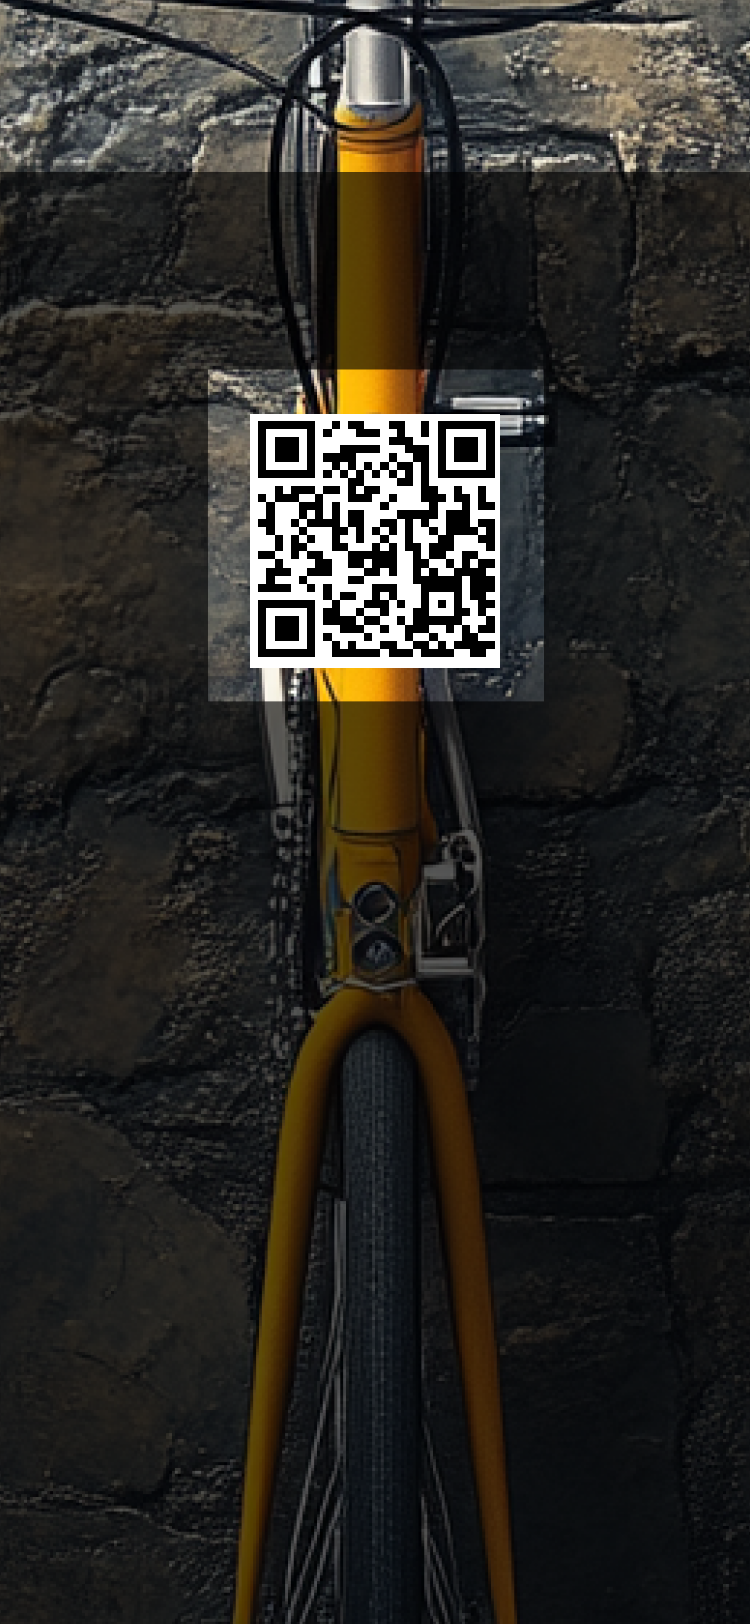
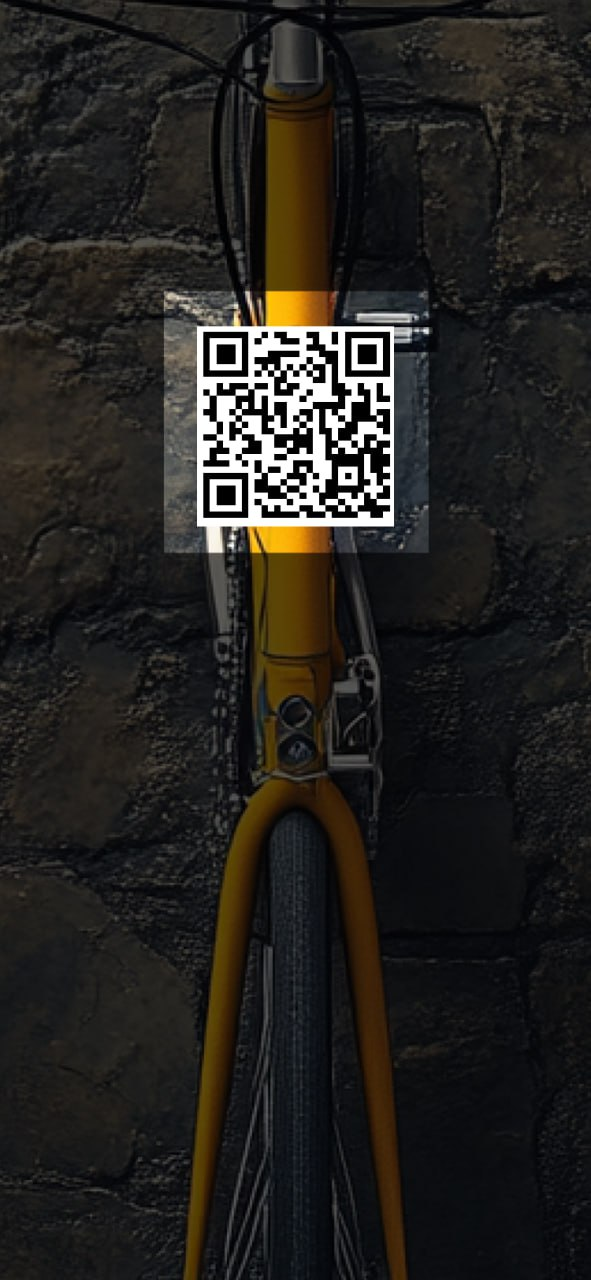
Fix interface and update QR image

Changed region(s): [[0.0, 0.0, 1.0, 0.125]]

diff --git a/components/MapComponent.tsx b/components/MapComponent.tsx
@@ -153,38 +153,40 @@ const MapComponent: React.FC = () => {
       </MapContainer>
 
       {/* Шторка с информацией об объекте и кнопкой Reserve */}
-      <div className={`drawer ${selectedObject ? 'open' : ''}`}>
-        {selectedObject && (
-          <div className="drawer-content">
-            <div className="drawer-header">
-              <h3 className="dialog-title">#{selectedObject.id}</h3>
-              <img src="/bike-icon.svg" alt="Bike Icon" className="bike-icon-large" />
-            </div>
-            <p>{selectedObject.address}</p>
+      {!isRateInfoVisible && (
+        <div className={`drawer ${selectedObject ? 'open' : ''}`}>
+          {selectedObject && (
+            <div className="drawer-content">
+              <div className="drawer-header">
+                <h3 className="dialog-title">#{selectedObject.id}</h3>
+                <img src="/bike-icon.svg" alt="Bike Icon" className="bike-icon-large" />
+              </div>
+              <p>{selectedObject.address}</p>
 
-            {timeLeft === null && !reservationTimedOut ? (
-              // Шаг 1: Кнопка для резервирования
-              <>
-                <button className="reserve-button" onClick={handleReserveClick}>Reserve</button>
-                <button className="cancel-button" onClick={handleCancel}>Cancel</button>
-              </>
-            ) : reservationTimedOut ? (
-              // Тайм-аут резервирования
-              <>
-                <h3>Reservation timed out</h3>
-                <button className="cancel-button" onClick={handleCancel}>Cancel</button>
-              </>
-            ) : (
-              // Таймер и кнопка Rent
-              <>
-                <h3>Booked for {formatTime(timeLeft)}</h3>
-                <button className="rent-button" onClick={handleRentClick}>Rent</button>
-                <button className="cancel-button" onClick={handleCancel}>Cancel</button>
-              </>
-            )}
-          </div>
-        )}
-      </div>
+              {timeLeft === null && !reservationTimedOut ? (
+                // Шаг 1: Кнопка для резервирования
+                <>
+                  <button className="reserve-button" onClick={handleReserveClick}>Reserve</button>
+                  <button className="cancel-button" onClick={handleCancel}>Cancel</button>
+                </>
+              ) : reservationTimedOut ? (
+                // Тайм-аут резервирования
+                <>
+                  <h3>Reservation timed out</h3>
+                  <button className="cancel-button" onClick={handleCancel}>Cancel</button>
+                </>
+              ) : (
+                // Таймер и кнопка Rent
+                <>
+                  <h3>Booked for {formatTime(timeLeft)}</h3>
+                  <button className="rent-button" onClick={handleRentClick}>Rent</button>
+                  <button className="cancel-button" onClick={handleCancel}>Cancel</button>
+                </>
+              )}
+            </div>
+          )}
+        </div>
+      )}
 
       {/* Экран QR */}
       {isQRScreenVisible && (

diff --git a/components/MapComponent.css b/components/MapComponent.css
@@ -576,3 +576,93 @@ html, body, #root {
   font-weight: bold;
 }
 
+.map-component {
+  height: 100vh;
+  width: 100vw;
+  position: relative;
+}
+
+.map-container {
+  height: 100%;
+  width: 100%;
+}
+
+.drawer {
+  position: fixed;
+  bottom: 0;
+  left: 0;
+  width: 100%;
+  background-color: white;
+  box-shadow: 0px -2px 10px rgba(0, 0, 0, 0.1);
+  padding: 20px;
+  border-top-left-radius: 20px;
+  border-top-right-radius: 20px;
+  transition: transform 0.3s ease-in-out;
+  transform: translateY(100%);
+  z-index: 500;
+}
+
+.drawer.open {
+  transform: translateY(0);
+}
+
+.drawer-header {
+  display: flex;
+  align-items: center;
+  justify-content: space-between;
+  margin-bottom: 20px;
+}
+
+.dialog-title {
+  font-size: 24px;
+  font-weight: bold;
+}
+
+.bike-icon-large {
+  width: 50px;
+}
+
+.reserve-button, .rent-button, .cancel-button {
+  width: calc(100% - 40px); /* Устанавливаем ширину кнопки, чтобы совпадала с текстом */
+  max-width: 360px;
+  padding: 12px;
+  border-radius: 8px;
+  font-size: 16px;
+  font-weight: bold;
+  cursor: pointer;
+  margin-top: 10px;
+}
+
+
+.rate-dialog {
+  position: fixed;
+  bottom: 0;
+  left: 0;
+  width: 100%;
+  background-color: white;
+  padding: 20px;
+  border-top-left-radius: 20px;
+  border-top-right-radius: 20px;
+  box-shadow: 0px -2px 10px rgba(0, 0, 0, 0.1);
+  z-index: 500;
+}
+
+.rate-options {
+  display: flex;
+  flex-direction: column;
+  gap: 10px;
+  margin-top: 20px;
+}
+
+.rate-option {
+  display: flex;
+  justify-content: space-between;
+  padding: 10px;
+  border: 1px solid #ddd;
+  border-radius: 8px;
+}
+
+.rate-option.selected {
+  border-color: black;
+  font-weight: bold;
+}
